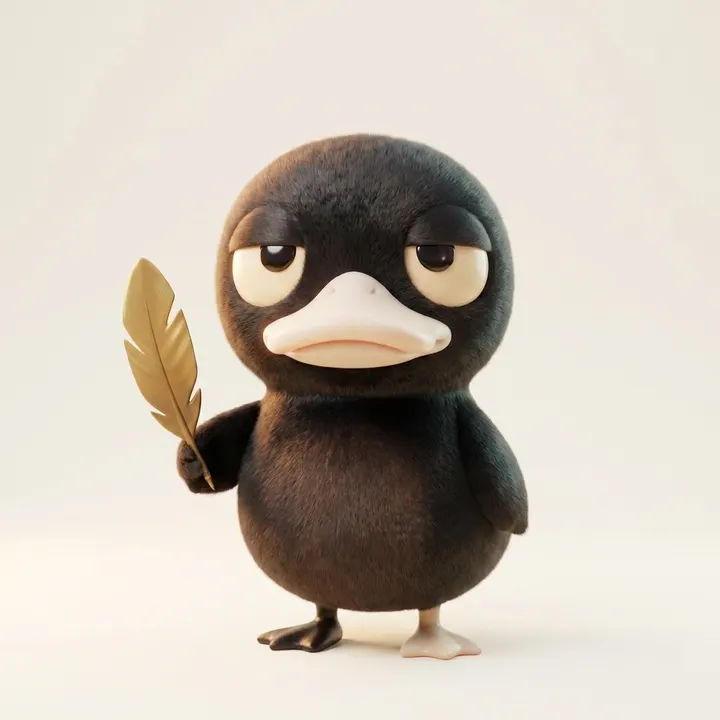
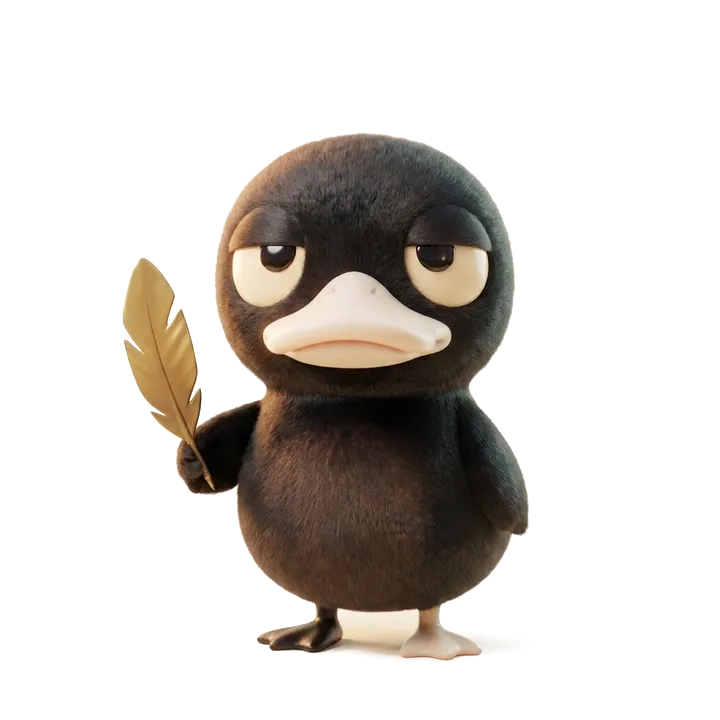
fix: il pennello non ridipinge nero, testo nero sulla home, tasti tondi
IL BUG GRAVE. Correggendo a mano un file passato dal blocco, ciò che si
recuperava tornava NERO. La causa: dopo l'ingrandimento il file di partenza ha
un'altra misura, e il pennello — che non riscalava mai — rinunciava al colore
e ricadeva sul canvas premoltiplicato, dove il trasparente ha già perso la sua
tinta. Ora la sorgente si riporta alla misura del ritaglio, ma SOLO se le
proporzioni coincidono: un ingrandimento cambia la misura e non il contenuto,
un ritaglio cambia il contenuto e riscalarlo sposterebbe i colori di posto —
lì si continua a rinunciare, e a dirlo.

LA HOME. Via il velo: il video È panna, e il vuoto a sinistra
dell'inquadratura è lasciato apposta per scriverci dentro. Oscurarlo buttava
via metà del lavoro per risolvere un problema che si risolve cambiando colore
alle parole. Sul panna si scrive nero. I blocchi ora si alternano fra sinistra
e destra, perché il vuoto c'è da tutte e due le parti e tenere tutto a
sinistra faceva sembrare i testi una barra laterale invece che scritte dentro
la scena.

LE ILLUSTRAZIONI erano per lo studio, non per la home: sono gli stati vuoti
E-* del piano asset. Tolte dalla presentazione, messe dove servono davvero —
la dropzone senza file e la tela di Brain vuota. Una schermata senza niente
dentro è l'unico momento in cui non c'è il lavoro dell'utente da guardare, e
appena c'è l'illustrazione se ne va.

Il fondo panna delle illustrazioni l'ha tolto keying.js, lo stesso scritto per
[…]

diff --git a/src/landing/landing.css b/src/landing/landing.css
@@ -521,29 +521,63 @@ body {
   opacity: 1;
 }
 
-/* Il velo, dentro il video e non dietro: sta sopra le immagini e sotto le
-   parole. Messo fuori finiva sotto al video e il testo restava illeggibile.
-   Sfuma prima di arrivare a Zack, che vive sulla destra dell'inquadratura. */
-.home-video::after {
-  content: '';
-  position: absolute;
-  inset: 0;
-  background: linear-gradient(
-    95deg,
-    var(--nero, #111111) 0%,
-    rgba(17, 17, 17, 0.94) 34%,
-    rgba(17, 17, 17, 0.6) 52%,
-    rgba(17, 17, 17, 0) 78%
-  );
-  pointer-events: none;
-}
+/* Nessun velo.
+ *
+ * Prima ce n'era uno che scuriva la metà sinistra per far leggere il testo
+ * panna. Ma il video È panna, e il vuoto a sinistra dell'inquadratura è
+ * lasciato apposta per scriverci dentro: oscurarlo buttava via metà del
+ * lavoro per risolvere un problema che si risolve cambiando colore alle
+ * parole. Sul panna si scrive **nero**. */
 
-/* I testi scorrono sopra il video, sulla metà sinistra. */
+/* I testi scorrono sopra il video, nel vuoto che l'inquadratura lascia. */
 .home-testi {
   position: relative;
   z-index: 1;
-  width: min(46%, 620px);
-  padding: 0 clamp(20px, 4vw, 64px);
+  width: min(40%, 520px);
+  padding: 0 clamp(20px, 3vw, 48px);
+  color: var(--nero, #111111);
+}
+
+/* Tutto quello che sta sopra il video diventa nero: titoli, testo, occhielli.
+   Il grigio del fondo scuro qui sparirebbe sul panna. */
+.home-blocco,
+.home-blocco h2,
+.home-blocco p,
+.home-blocco li,
+.home-blocco b,
+.home-blocco span {
+  color: var(--nero, #111111);
+}
+
+.home-blocco .kicker {
+  color: #6b5a2e;
+}
+
+.home-blocco .lp-quote,
+.home-blocco .lp-note {
+  color: #3f3a30;
+}
+
+/* Alcuni blocchi stanno a destra: l'inquadratura ha vuoto da tutte e due le
+   parti, e alternare evita la colonna unica che sembra una barra laterale. */
+.home-blocco[data-lato='destra'] {
+  justify-items: end;
+  text-align: right;
+  margin-left: auto;
+}
+
+.home-testi[data-alterna] {
+  width: 100%;
+  padding: 0 clamp(20px, 4vw, 72px);
+}
+
+.home-testi[data-alterna] .home-blocco {
+  max-width: min(42%, 540px);
+}
+
+.home-testi[data-alterna] .home-blocco[data-lato='destra'] {
+  max-width: min(42%, 540px);
+  margin-left: auto;
 }
 
 /* Ogni blocco è alto uno schermo: è quanto serve perché la sua clip scorra
@@ -563,8 +597,22 @@ body {
     width: 100%;
   }
 
+  /* Su schermo stretto Zack finisce dietro le parole: lì un velo serve, ma
+     chiaro — si continua a scrivere nero. */
   .home-video::after {
-    background: rgba(17, 17, 17, 0.84);
+    content: '';
+    position: absolute;
+    inset: 0;
+    background: rgba(245, 240, 232, 0.72);
+    pointer-events: none;
+  }
+
+  .home-testi[data-alterna] .home-blocco,
+  .home-testi[data-alterna] .home-blocco[data-lato='destra'] {
+    max-width: 100%;
+    text-align: left;
+    justify-items: start;
+    margin-left: 0;
   }
 }
 
@@ -585,4 +633,23 @@ body {
   margin-top: 12px;
   mix-blend-mode: screen;
   opacity: 0.92;
+}
+
+/* I tasti della presentazione seguono la stessa forma di quelli dello studio:
+   ovale, contorno, scritta grossa centrata. Un marchio che cambia forma fra
+   la pagina che convince e il prodotto che si apre è due marchi. */
+.lp-cta,
+.langswitch button {
+  font-family: 'Fredoka', 'Space Grotesk', system-ui, sans-serif;
+  font-weight: 600;
+  letter-spacing: 0.06em;
+  border-radius: 999px;
+  display: inline-flex;
+  align-items: center;
+  justify-content: center;
+  text-align: center;
+}
+
+.lp-cta {
+  border: 2px solid var(--oro, #c4a35a);
 }

diff --git a/src/styles.css b/src/styles.css
@@ -2953,6 +2953,12 @@ body {
  * ------------------------------------------------------------------ */
 :root {
   --tasto-bordo: #f5f0e8;
+  /* Il font dei tasti, e solo dei tasti: circolare e amichevole, come il
+     disegno. Il sistema tipografico del marchio — Space Grotesk per
+     l'interfaccia, Cormorant per l'editoriale — resta dov'era: cambiarlo
+     tutto per far somigliare i pulsanti a uno schizzo sarebbe stato un
+     rifacimento del marchio, non un ritocco. */
+  --tasto-font: 'Fredoka', 'Space Grotesk', system-ui, sans-serif;
 }
 
 .brain-barra button,
@@ -2972,12 +2978,21 @@ body {
   border-radius: 999px;
   background: var(--nero);
   color: var(--panna);
-  font-family: var(--display);
-  font-weight: 700;
-  font-size: 11px;
-  letter-spacing: 0.14em;
+  font-family: var(--tasto-font);
+  font-weight: 600;
+  font-size: 13px;
+  /* Fredoka è già larga di suo: la spaziatura di Space Grotesk qui
+     sfalderebbe le parole. */
+  letter-spacing: 0.06em;
   text-transform: uppercase;
-  padding: 11px 20px;
+  padding: 10px 22px;
+  /* Le parole stanno al centro dell'ovale, sempre — anche quando accanto
+     c'è un'icona e anche quando il tasto è più largo del suo testo. */
+  display: inline-flex;
+  align-items: center;
+  justify-content: center;
+  gap: 9px;
+  text-align: center;
   transition: color 0.15s, border-color 0.15s, background 0.15s;
 }
 
@@ -3030,11 +3045,13 @@ body {
 /* Il cassetto della libreria: nomi lunghi, quindi allineati a sinistra e non
    in stampatello — sono nomi di file, non comandi. */
 .brain-chip {
+  font-family: var(--display);
   text-transform: none;
   letter-spacing: 0.02em;
   font-weight: 500;
   font-size: 11px;
   padding: 8px 14px;
+  justify-content: flex-start;
   text-align: left;
 }
 
@@ -3249,4 +3266,24 @@ body {
   display: grid;
   grid-template-columns: 1fr 1fr;
   gap: 6px;
+}
+
+/* ---- gli stati vuoti: dove il personaggio serve davvero ----
+   Una schermata senza niente dentro è l'unico momento in cui non c'è il
+   lavoro dell'utente da guardare. Appena c'è, l'illustrazione se ne va. */
+.drop-zack {
+  width: min(190px, 34%);
+  height: auto;
+  margin: 0 auto 6px;
+  display: block;
+}
+
+.brain-vuota {
+  position: absolute;
+  left: 50%;
+  top: 50%;
+  transform: translate(-50%, -50%);
+  width: min(280px, 40%);
+  opacity: 0.5;
+  pointer-events: none;
 }

diff --git a/src/components/MaskBrush.jsx b/src/components/MaskBrush.jsx
@@ -28,17 +28,40 @@ const MAX_UNDO = 12;
  * colore sul posto, e recuperarlo dal solo ritaglio ridipinge nero. I colori
  * vivi stanno soltanto nella sorgente.
  */
-/** I pixel di un'immagine, senza riscalarla: una scala sbagliata qui
- *  sposterebbe i colori di posto. */
-async function toPixels(blob) {
+/**
+ * I pixel di un'immagine, eventualmente riportata a una misura data.
+ *
+ * Riscalare è lecito **solo se le proporzioni coincidono**: un ingrandimento
+ * cambia la misura ma non il contenuto, quindi la sorgente riscalata ha il
+ * colore giusto in ogni punto. Un ritaglio invece cambia il contenuto, e
+ * riscalarlo sposterebbe i colori di posto — lì si rinuncia e lo si dice.
+ *
+ * Prima non si riscalava mai: dopo un ingrandimento in blocco la sorgente
+ * aveva un'altra misura, il pennello rinunciava al colore e ciò che si
+ * recuperava tornava NERO. Il difetto si vedeva solo correggendo a mano un
+ * file passato dal blocco, cioè nel momento peggiore.
+ */
+async function toPixels(blob, misura = null) {
   const bmp = await createImageBitmap(blob);
+
+  let w = bmp.width;
+  let h = bmp.height;
+  if (misura) {
+    const stessaForma = Math.abs(bmp.width / bmp.height - misura.w / misura.h) < 0.01;
+    if (stessaForma) {
+      w = misura.w;
+      h = misura.h;
+    }
+  }
+
   const c = document.createElement('canvas');
-  c.width = bmp.width;
-  c.height = bmp.height;
+  c.width = w;
+  c.height = h;
   const ctx = c.getContext('2d', { willReadFrequently: true });
-  ctx.drawImage(bmp, 0, 0);
+  ctx.imageSmoothingQuality = 'high';
+  ctx.drawImage(bmp, 0, 0, w, h);
   bmp.close?.();
-  return { w: c.width, h: c.height, data: ctx.getImageData(0, 0, c.width, c.height).data };
+  return { w, h, data: ctx.getImageData(0, 0, w, h).data };
 }
 
 export default function MaskBrush({ source, cutout, onChange, onDone }) {
@@ -64,7 +87,7 @@ export default function MaskBrush({ source, cutout, onChange, onDone }) {
       // si continua con quello che c'è invece di fermarsi.
       let src = null;
       try {
-        src = source ? await toPixels(source) : null;
+        src = source ? await toPixels(source, { w: cut.w, h: cut.h }) : null;
       } catch (e) {
         console.error(e);
       }

diff --git a/src/landing/Landing.jsx b/src/landing/Landing.jsx
@@ -29,7 +29,6 @@ const CLIP = [
 const BLOCCHI = [
   {
     id: 'problema',
-    figura: '/zack/sfere.webp',
     render: (c) => (
       <>
         <p className="kicker">{c.problem.kicker}</p>
@@ -40,7 +39,6 @@ const BLOCCHI = [
   },
   {
     id: 'strumenti',
-    figura: '/zack/vettoriale.webp',
     render: (c) => (
       <>
         <p className="kicker">{c.tools.kicker}</p>
@@ -59,7 +57,6 @@ const BLOCCHI = [
   },
   {
     id: 'libreria',
-    figura: '/zack/libreria.webp',
     render: (c) => (
       <>
         <p className="kicker">{c.library.kicker}</p>
@@ -71,7 +68,6 @@ const BLOCCHI = [
   },
   {
     id: 'generazione',
-    figura: '/zack/cornice.webp',
     render: (c) => (
       <>
         <p className="kicker">{c.generate.kicker}</p>
@@ -84,7 +80,6 @@ const BLOCCHI = [
   },
   {
     id: 'privacy',
-    figura: '/zack/piuma.webp',
     render: (c) => (
       <>
         <p className="kicker">{c.privacy.kicker}</p>
@@ -159,21 +154,21 @@ export default function Landing() {
       <div className="home-racconto">
         <HomeVideo clip={CLIP} sezioni={sezioni} />
 
-        <div className="home-testi">
+        <div className="home-testi" data-alterna>
           {BLOCCHI.map((b, i) => (
             <section
               key={b.id}
               className="home-blocco"
               id={b.id}
+              /* Si alterna: il vuoto dell'inquadratura c'è da tutte e due le
+                 parti, e tenere tutto a sinistra farebbe sembrare i testi una
+                 barra laterale invece che scritte dentro la scena. */
+              data-lato={i % 2 ? 'destra' : 'sinistra'}
               ref={(el) => {
                 sezioni.current[i] = el;
               }}
             >
               {b.render(c)}
-              {/* L'illustrazione accompagna il testo e non lo sostituisce:
-                  è ferma, mentre il video accanto è la cosa che si muove.
-                  Due animazioni sullo stesso schermo si tolgono attenzione. */}
-              {b.figura && <img className="home-figura" src={b.figura} alt="" loading="lazy" />}
             </section>
           ))}
         </div>

diff --git a/src/components/Brain.jsx b/src/components/Brain.jsx
@@ -263,6 +263,12 @@ export default function Brain({ items, assets, leggi, onChange, onUse, onImport,
             </p>
           )}
 
+          {/* Tela vuota: Zack seduto fra le sue cose (E-BRAIN). Sparisce al
+              primo oggetto — un fondale che resta sotto il lavoro è rumore. */}
+          {items.length === 0 && (
+            <img className="brain-vuota" src="/zack/sfere.webp" alt="" />
+          )}
+
           <div
             className="brain-tela"
             style={{ transform: `translate(${vista.x}px, ${vista.y}px) scale(${vista.z})` }}

diff --git a/src/components/Dropzone.jsx b/src/components/Dropzone.jsx
@@ -28,6 +28,11 @@ export default function Dropzone({ onFile, accept = 'image/*', title, hint }) {
       }}
     >
       <span className="rule" />
+      {/* Lo stato vuoto: Zack aspetta con la piuma in ala. È l'asset E-DROP
+          del piano — una schermata senza niente dentro è il posto dove il
+          personaggio serve davvero, perché è l'unico momento in cui non c'è
+          il lavoro dell'utente da guardare. */}
+      <img className="drop-zack" src="/zack/piuma.webp" alt="" />
       <h2>{title}</h2>
       <p>{hint}</p>
       <input

diff --git a/app/index.html b/app/index.html
@@ -15,7 +15,7 @@
     <link rel="preconnect" href="https://fonts.gstatic.com" crossorigin />
     <!-- Type system JAYL: Space Grotesk display/UI, Cormorant Garamond editoriale. -->
     <link
-      href="https://fonts.googleapis.com/css2?family=Space+Grotesk:wght@400;500;700&family=Cormorant+Garamond:ital,wght@1,400;1,500&display=swap"
+      href="https://fonts.googleapis.com/css2?family=Space+Grotesk:wght@400;500;700&family=Cormorant+Garamond:ital,wght@1,400;1,500&family=Fredoka:wght@500;600&display=swap"
       rel="stylesheet"
     />
   </head>

diff --git a/index.html b/index.html
@@ -19,7 +19,7 @@
     <link rel="preconnect" href="https://fonts.googleapis.com" />
     <link rel="preconnect" href="https://fonts.gstatic.com" crossorigin />
     <link
-      href="https://fonts.googleapis.com/css2?family=Space+Grotesk:wght@400;500;700&family=Cormorant+Garamond:ital,wght@1,400;1,500&display=swap"
+      href="https://fonts.googleapis.com/css2?family=Space+Grotesk:wght@400;500;700&family=Cormorant+Garamond:ital,wght@1,400;1,500&family=Fredoka:wght@500;600&display=swap"
       rel="stylesheet"
     />
   </head>
